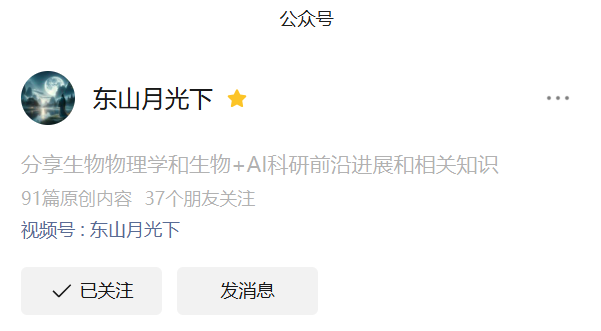
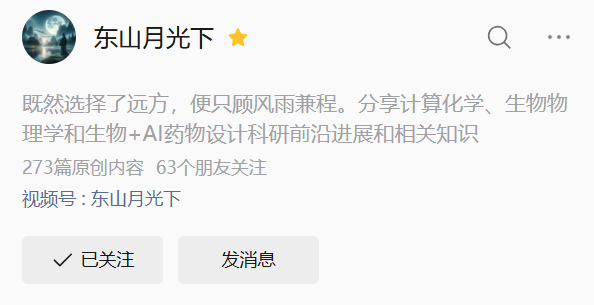
modify intro, add SEO

diff --git a/googlea545055265f1f036.html b/googlea545055265f1f036.html
@@ -1,0 +1,1 @@
+google-site-verification: googlea545055265f1f036.html

diff --git a/_pages/Diary/diary5.md b/_pages/Diary/diary5.md
@@ -1,0 +1,48 @@
+
+# 2026.5~6
+
+也只有不断的多读书获取知识想法，真正做出行动去改变，才能自己解决问题
+接受世界的不确定性，没有完美的事业，走一步看一步多了解吧，没有什么是一定要达成的具体的全局目标，也许有抽象的，我不是能力强的人，只要不是德不配位的事都可以干。还是不得不要对世界多了解，收集信息来做判断
+做任何反应时，都记得拥抱变化和不确定性要追求的不是完美或全局最优，而是帕累托最优时间不花在纯消耗、没收获的事情，比如过多的内耗、杂活，就是胜利了
+用行动去克服某些"自己不敢想能做的事"，显然比想更容易，但需要特定的因缘来帮助降低活化能
+不逼迫自己干一些反天性费劲的事情，还是在有些方面难以取得突破的，而且其实有些门槛并不如想象那么高，可能跟人交流就能克服
+有了AI，更应该留着脑子给全局规划、思考创新和学习，而不是摸鱼
+或者放弃幻想，我做不了什么前沿工作，当个技术员就挺好，自娱自乐，闭门造车就行。找个清闲的工作，多做喜欢的事
+接受现实，坚定选择，直到机会出现，不现就算了
+干体力活也好，就是跑不动了。菜就多练，得多运动。和AI交互好累，很多东西是错的，但就像能不能坐着吸烟一样没良心。。得多学基础知识了，不能光看文献
+浮云遮月人静，冷风拂袖骑行。师弟亦未寝，独行步于中庭。走走，停停，沉默不是无情。未来永远是不确定的，没有什么永远让人有安全感的存在。人生的无数次选择都是做概率题，大部分行动得到真正收益的概率不高，但还是愿有勇气表达，而不是始终做出消极的选择吧。主要矛盾是付出的努力始终没有得到世俗意义的回报，一局破则关关过。并不是大家不认可我，而是没有表达，没空表达吧。老师们也很忙，也主要是辅助。但我不接受邮件不回复。环境什么的，就和解吧。反正都是为自己负责，提升自己的能力，尽量让世界变得更好。所以别想得那么坏吧，我也有该表达却不说的时候。我说得很不好，不必抱怨没人听，去找个别的环境练习一下吧。
+生活不能只有一个支点，课外活动不能放在同一个篮子里。何为幸福？尽量多数时候认可自己，且这一点不容易被外界环境所改变。
+延期什么的都无所谓，主要是绝对不能活得有太大压力。还是应该优先出第一篇文章
+这周是百分之摆了。。
+一个人的发展路径、人生哲学等其实很早就决定了。只有多看内容才能改变，但看的书可能已经是信息茧房了
+还是先做小分子，否则还是发文章逃亡主义。把自己一作的工作的优先级提高。只能逼自己
+野生科研人是这样的，你必须是天才牛人
+在体系中总是只有眼前的苟且，或者我放弃自己就给真正的大才打杂，也是极符合需求的只想拥有好睡眠
+要抓紧时间实施，快点做自己的课题
+能把问题表达清楚，已经很不错了，可以交给AI 了
+有些事情看似没希望，其实应该早出手去抢
+明哲保身是对的。活得开心，绝不能有压力，和压力源保持适当距离。还是相信它没那么糟糕吧
+真实状态是：越和我相关的事越要谨慎行动，越和我无关的好笑的事越要大笑
+我的剧情已落幕，我的爱恨已入土。向人家学习好的思想，不要往坏的方向解释。不要内耗，不受影响。深入研究，别搞新课题。
+搞科学，还是得多看东西，多被指导
+半月报确实有利于理思路了，也确实该花时间，但也不用写的太好。还是嘴说更有效率，要点有了就行了，去他奶奶的。是给自己写的，不是给老师写的
+只能是在不传递负能量的情况下尽量鼓励自己表达吧，无法表达极大地制约了学术上的发展。课题组之外真的还有什么regular的圈子或人吗…
+如何改掉害怕失败的人生底色，真正不再算计投入产出比？这是底层问题。看清这些事实，不因为失败就放弃美好的品格，这是表象问题。
+人还是要有信仰，把一些信条当成思想钢印，才能成长。
+
+不想和人交流可能的原因有：
+- 可能得不到想要的交流成果，觉得没用
+- 需要主动付出精力，尤其是和不熟的人。懒惰
+- 甚至可能受到伤害
+
+所以没有交流成果还可以满足情感需求，我是尽量把人往好的想的，那就需要找熟人，融入某个集体，就是互相促进的正能量。但我目前的策略是和集体甚至世界减少联系，因为整体的进步在减缓、回报在减少，有可能被输入负面信息。我左右不了宏观，也别左右互搏吧，就适当融入但还是自私一点。
+
+但自私会导致对自身的认可度下降，为别人做贡献是会提升幸福感，但首先要求能力足够。
+
+所以其实还是尽量鼓励自己去做点一开始否定掉的、一般不会去做的事情吧，也就是勇敢一点吧。
+
+而且不要太在乎结果，不在乎可能表现得不好，其实别人没那么在乎，将心比心就理解了，追求表现完美其实还是跟自己过不去。不在乎可能浪费了时间而没有成效，摸鱼的日子还少吗？可能还是懒吧，只能靠思想钢印来破解。
+
+
+
+

diff --git a/CLAUDE.md b/CLAUDE.md
@@ -60,7 +60,8 @@ This is a personal research blog sharing experiences in molecular dynamics, comp
 - 去掉所有参考标记，如[cite\_start]、[cite: 3749]，根据CLAUDE.md修复所有格式
 - 注意title要用中文标点，不要用英文标点，尤其是英文引号，请修复。类似于title: "皮肤屏障的“水之道”：分子模拟揭示脂质相共存如何稳定间质水"，内部是中文标点。【OpenFE】这种是可以的。。但文件名不要出现乱七八糟的东西，标点符号等。
 - 把_pages\xxx.docx改写成Markdown，内容完全不变，保证参考文献链接仍然正确，即文内的引用标记要能对得上文末的list，得用这种吧：[^6]。
-- 写一篇【科研快讯】栏目的，125行以内，框架类似，内容精简，每一行内容可以多点。挑重点、关键方法和结果来写，太不符合逻辑主线可以不放了
+- 写一篇【科研简讯】栏目的，200行左右，框架类似，内容精简，每一行内容可以多点。挑重点、关键方法和结果来写，太不符合逻辑主线可以不放了
+- 写一篇【科研快讯】栏目的，125行以内，超级精简版本，只保留最核心的内容
 
 ## 可复用工具（tools/）
 

diff --git a/_pages/about.md b/_pages/about.md
@@ -25,6 +25,8 @@ bookmark: true
 
 **My Bilibili channel**: [东山月光下](https://space.bilibili.com/441196634). From time to time, I will share full courses, specialized mini-lecture, animated demonstrations and cutting-edge lectures in macromolecular structure study, molecular dynamics simulation/statistical thermodynamics, oncology and immunology. English-Chinese dual subtitles are added for videos from YouTube. Please subscribe and triple click (一键三连)! 
 
+![](assets/img/bilibili.png)
+
 Representatives:
 
 - [Molecular Biophysics course 2020, by Erik Lindahl](https://www.bilibili.com/video/BV1gL411471e)